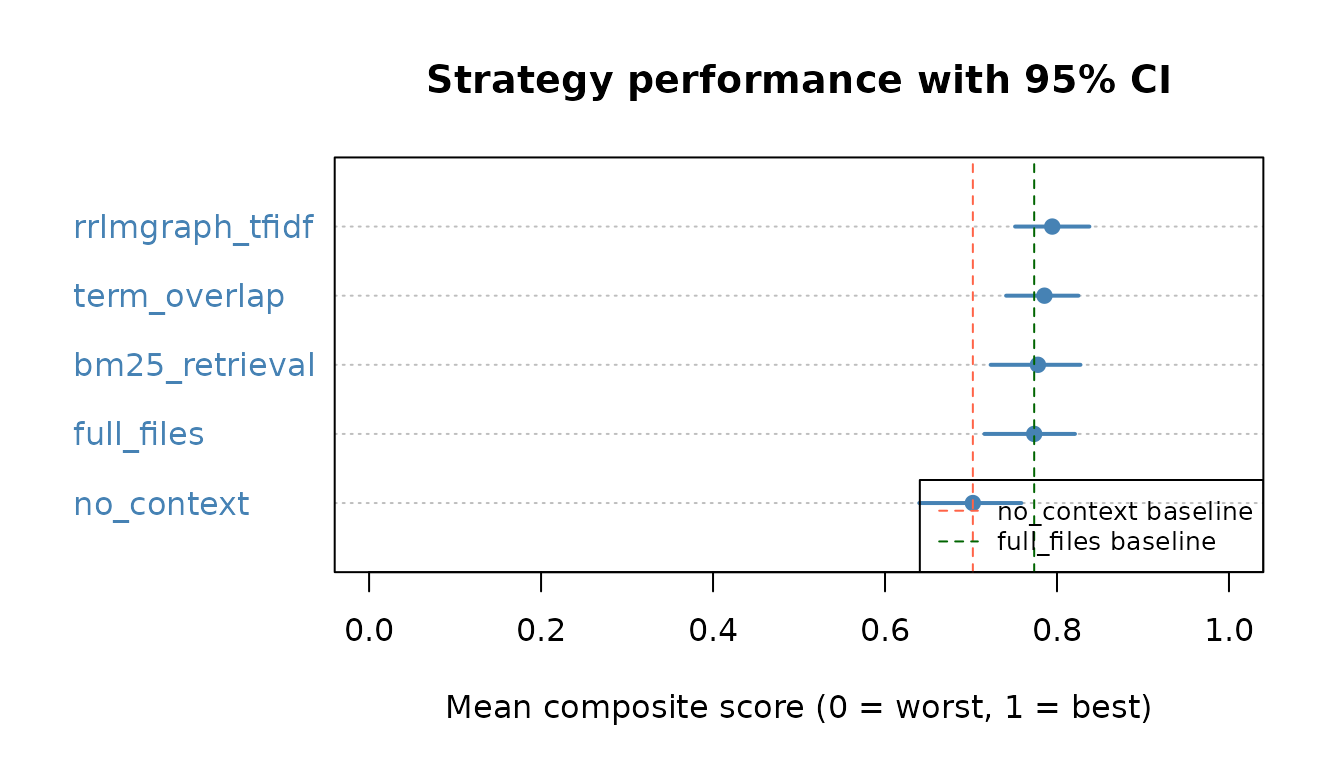
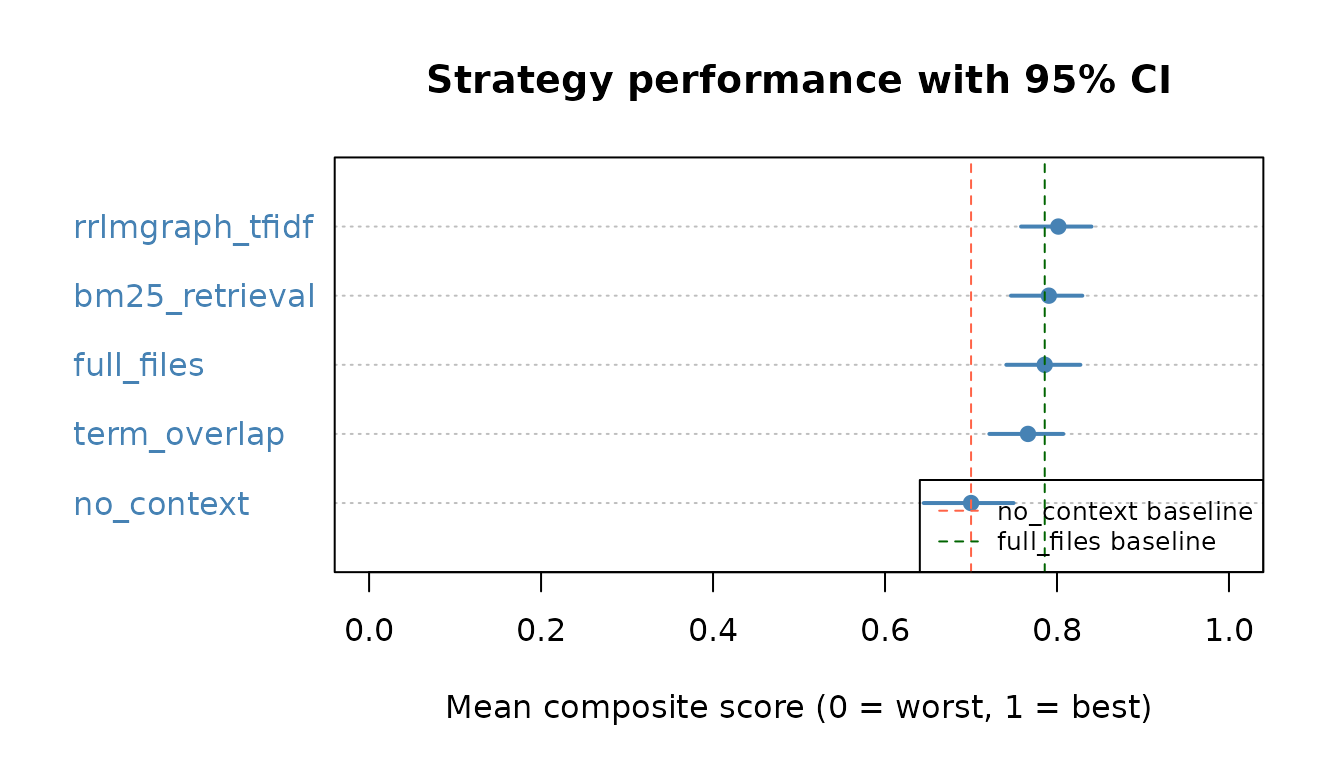
Deploying to gh-pages from @ davidrsch/rrlmgraph-bench@4876ec81f4651fabf355dbad94a3f4f26b782f0a 🚀

diff --git a/articles/benchmark_report.html b/articles/benchmark_report.html
@@ -201,17 +201,17 @@ automatically every Monday (and on demand) by the
 <span>    <span class="op">)</span></span>
 <span>  <span class="op">)</span></span>
 <span><span class="op">}</span></span></code></pre></div>
-<table style="width:100%;" class="table">
+<table class="table">
 <caption>First 6 rows of raw results. ‘score’ is the composite 0-1
 metric. ‘syntax_valid’ and ‘runs_without_error’ are 0/1 indicators.
 ‘total_tokens’ is the sum of input + output tokens billed.</caption>
 <colgroup>
-<col width="20%">
+<col width="18%">
 <col width="16%">
 <col width="6%">
 <col width="10%">
 <col width="13%">
-<col width="19%">
+<col width="20%">
 <col width="13%">
 </colgroup>
 <thead><tr class="header">
@@ -225,58 +225,58 @@ metric. ‘syntax_valid’ and ‘runs_without_error’ are 0/1 indicators.
 </tr></thead>
 <tbody>
 <tr class="odd">
-<td align="left">task_001_fm_mini_ds</td>
+<td align="left">task_017_fm_shiny</td>
 <td align="left">rrlmgraph_tfidf</td>
 <td align="right">1</td>
-<td align="right">0.8563655</td>
+<td align="right">0.7172388</td>
 <td align="left">TRUE</td>
 <td align="left">TRUE</td>
-<td align="right">642</td>
+<td align="right">1206</td>
 </tr>
 <tr class="even">
-<td align="left">task_001_fm_mini_ds</td>
+<td align="left">task_017_fm_shiny</td>
 <td align="left">full_files</td>
 <td align="right">1</td>
-<td align="right">0.8016129</td>
+<td align="right">0.6956590</td>
 <td align="left">TRUE</td>
 <td align="left">TRUE</td>
-<td align="right">1854</td>
+<td align="right">2361</td>
 </tr>
 <tr class="odd">
-<td align="left">task_001_fm_mini_ds</td>
+<td align="left">task_017_fm_shiny</td>
 <td align="left">term_overlap</td>
 <td align="right">1</td>
-<td align="right">0.8083578</td>
+<td align="right">0.6891128</td>
 <td align="left">TRUE</td>
 <td align="left">TRUE</td>
-<td align="right">455</td>
+<td align="right">5877</td>
 </tr>
 <tr class="even">
-<td align="left">task_001_fm_mini_ds</td>
+<td align="left">task_017_fm_shiny</td>
 <td align="left">bm25_retrieval</td>
 <td align="right">1</td>
-<td align="right">0.8568571</td>
+<td align="right">0.6922215</td>
 <td align="left">TRUE</td>
 <td align="left">TRUE</td>
-<td align="right">1865</td>
+<td align="right">5615</td>
 </tr>
 <tr class="odd">
-<td align="left">task_001_fm_mini_ds</td>
+<td align="left">task_017_fm_shiny</td>
 <td align="left">no_context</td>
 <td align="right">1</td>
-<td align="right">0.7824445</td>
+<td align="right">0.6668615</td>
 <td align="left">TRUE</td>
 <td align="left">TRUE</td>
-<td align="right">356</td>
+<td align="right">209</td>
 </tr>
 <tr class="even">
-<td align="left">task_002_fm_shiny</td>
+<td align="left">task_005_bd_shiny</td>
 <td align="left">rrlmgraph_tfidf</td>
 <td align="right">1</td>
-<td align="right">0.8822222</td>
+<td align="right">0.9152941</td>
 <td align="left">TRUE</td>
 <td align="left">TRUE</td>
-<td align="right">687</td>
+<td align="right">889</td>
 </tr>
 </tbody>
 </table>
@@ -367,52 +367,52 @@ rate per strategy.</caption>
 <tbody>
 <tr class="odd">
 <td align="left">rrlmgraph_tfidf</td>
-<td align="right">30</td>
-<td align="right">0.794</td>
-<td align="right">0.116</td>
-<td align="right">0.751</td>
-<td align="right">0.838</td>
-<td align="right">733.833</td>
-<td align="right">0.400</td>
+<td align="right">29</td>
+<td align="right">0.802</td>
+<td align="right">0.117</td>
+<td align="right">0.758</td>
+<td align="right">0.840</td>
+<td align="right">726.586</td>
+<td align="right">0.379</td>
 </tr>
 <tr class="even">
 <td align="left">full_files</td>
 <td align="right">29</td>
-<td align="right">0.773</td>
-<td align="right">0.147</td>
-<td align="right">0.716</td>
-<td align="right">0.821</td>
-<td align="right">1284.966</td>
+<td align="right">0.786</td>
+<td align="right">0.123</td>
+<td align="right">0.741</td>
+<td align="right">0.827</td>
+<td align="right">1172.000</td>
 <td align="right">0.379</td>
 </tr>
 <tr class="odd">
 <td align="left">term_overlap</td>
 <td align="right">29</td>
-<td align="right">0.785</td>
-<td align="right">0.117</td>
-<td align="right">0.741</td>
-<td align="right">0.825</td>
-<td align="right">2654.000</td>
-<td align="right">0.448</td>
+<td align="right">0.766</td>
+<td align="right">0.123</td>
+<td align="right">0.721</td>
+<td align="right">0.807</td>
+<td align="right">2421.552</td>
+<td align="right">0.414</td>
 </tr>
 <tr class="even">
 <td align="left">bm25_retrieval</td>
 <td align="right">29</td>
-<td align="right">0.778</td>
-<td align="right">0.148</td>
-<td align="right">0.723</td>
-<td align="right">0.827</td>
-<td align="right">2531.241</td>
-<td align="right">0.414</td>
+<td align="right">0.791</td>
+<td align="right">0.119</td>
+<td align="right">0.746</td>
+<td align="right">0.830</td>
+<td align="right">2320.379</td>
+<td align="right">0.448</td>
 </tr>
 <tr class="odd">
 <td align="left">no_context</td>
 <td align="right">29</td>
-<td align="right">0.702</td>
-<td align="right">0.163</td>
-<td align="right">0.640</td>
-<td align="right">0.759</td>
-<td align="right">277.690</td>
+<td align="right">0.700</td>
+<td align="right">0.146</td>
+<td align="right">0.645</td>
+<td align="right">0.750</td>
+<td align="right">269.517</td>
 <td align="right">0.276</td>
 </tr>
 </tbody>
@@ -508,22 +508,22 @@ strategy is less efficient.</caption>
 <tbody>
 <tr class="odd">
 <td align="left">no_context</td>
-<td align="right">4.201</td>
+<td align="right">3.874</td>
 <td align="left">More efficient than full_files</td>
 </tr>
 <tr class="even">
 <td align="left">rrlmgraph_tfidf</td>
-<td align="right">1.799</td>
+<td align="right">1.646</td>
 <td align="left">More efficient than full_files</td>
 </tr>
 <tr class="odd">
 <td align="left">bm25_retrieval</td>
-<td align="right">0.510</td>
+<td align="right">0.508</td>
 <td align="left">Less efficient than full_files</td>
 </tr>
 <tr class="even">
 <td align="left">term_overlap</td>
-<td align="right">0.492</td>
+<td align="right">0.472</td>
 <td align="left">Less efficient than full_files</td>
 </tr>
 <tr class="odd">
@@ -578,22 +578,22 @@ namespace.</caption>
 <td align="left">High (&gt; 25%)</td>
 </tr>
 <tr class="even">
-<td align="left">full_files</td>
+<td align="left">rrlmgraph_tfidf</td>
 <td align="right">0.379</td>
 <td align="left">High (&gt; 25%)</td>
 </tr>
 <tr class="odd">
-<td align="left">rrlmgraph_tfidf</td>
-<td align="right">0.400</td>
+<td align="left">full_files</td>
+<td align="right">0.379</td>
 <td align="left">High (&gt; 25%)</td>
 </tr>
 <tr class="even">
-<td align="left">bm25_retrieval</td>
+<td align="left">term_overlap</td>
 <td align="right">0.414</td>
 <td align="left">High (&gt; 25%)</td>
 </tr>
 <tr class="odd">
-<td align="left">term_overlap</td>
+<td align="left">bm25_retrieval</td>
 <td align="right">0.448</td>
 <td align="left">High (&gt; 25%)</td>
 </tr>
@@ -757,33 +757,33 @@ differences across projects is not robust.</caption>
 <tbody>
 <tr class="odd">
 <td align="left">bm25_retrieval</td>
-<td align="right">0.853</td>
-<td align="right">0.747</td>
-<td align="right">0.730</td>
+<td align="right">0.841</td>
+<td align="right">0.795</td>
+<td align="right">0.735</td>
 </tr>
 <tr class="even">
 <td align="left">full_files</td>
-<td align="right">0.839</td>
-<td align="right">0.748</td>
-<td align="right">0.731</td>
+<td align="right">0.846</td>
+<td align="right">0.777</td>
+<td align="right">0.734</td>
 </tr>
 <tr class="odd">
 <td align="left">no_context</td>
-<td align="right">0.791</td>
-<td align="right">0.653</td>
-<td align="right">0.657</td>
+<td align="right">0.771</td>
+<td align="right">0.676</td>
+<td align="right">0.651</td>
 </tr>
 <tr class="even">
 <td align="left">rrlmgraph_tfidf</td>
-<td align="right">0.815</td>
-<td align="right">0.759</td>
-<td align="right">0.809</td>
+<td align="right">0.850</td>
+<td align="right">0.769</td>
+<td align="right">0.782</td>
 </tr>
 <tr class="odd">
 <td align="left">term_overlap</td>
-<td align="right">0.841</td>
-<td align="right">0.786</td>
-<td align="right">0.730</td>
+<td align="right">0.812</td>
+<td align="right">0.783</td>
+<td align="right">0.705</td>
 </tr>
 </tbody>
 </table>

diff --git a/articles/benchmark_report.md b/articles/benchmark_report.md
@@ -89,14 +89,14 @@ if (!results_available) {
 }
 ```
 
-| task_id             | strategy        | trial |     score | syntax_valid | runs_without_error | total_tokens |
-|:--------------------|:----------------|------:|----------:|:-------------|:-------------------|-------------:|
-| task_001_fm_mini_ds | rrlmgraph_tfidf |     1 | 0.8563655 | TRUE         | TRUE               |          642 |
-| task_001_fm_mini_ds | full_files      |     1 | 0.8016129 | TRUE         | TRUE               |         1854 |
-| task_001_fm_mini_ds | term_overlap    |     1 | 0.8083578 | TRUE         | TRUE               |          455 |
-| task_001_fm_mini_ds | bm25_retrieval  |     1 | 0.8568571 | TRUE         | TRUE               |         1865 |
-| task_001_fm_mini_ds | no_context      |     1 | 0.7824445 | TRUE         | TRUE               |          356 |
-| task_002_fm_shiny   | rrlmgraph_tfidf |     1 | 0.8822222 | TRUE         | TRUE               |          687 |
+| task_id           | strategy        | trial |     score | syntax_valid | runs_without_error | total_tokens |
+|:------------------|:----------------|------:|----------:|:-------------|:-------------------|-------------:|
+| task_017_fm_shiny | rrlmgraph_tfidf |     1 | 0.7172388 | TRUE         | TRUE               |         1206 |
+| task_017_fm_shiny | full_files      |     1 | 0.6956590 | TRUE         | TRUE               |         2361 |
+| task_017_fm_shiny | term_overlap    |     1 | 0.6891128 | TRUE         | TRUE               |         5877 |
+| task_017_fm_shiny | bm25_retrieval  |     1 | 0.6922215 | TRUE         | TRUE               |         5615 |
+| task_017_fm_shiny | no_context      |     1 | 0.6668615 | TRUE         | TRUE               |          209 |
+| task_005_bd_shiny | rrlmgraph_tfidf |     1 | 0.9152941 | TRUE         | TRUE               |          889 |
 
 First 6 rows of raw results. ‘score’ is the composite 0-1 metric.
 ‘syntax_valid’ and ‘runs_without_error’ are 0/1 indicators.
@@ -137,11 +137,11 @@ if (results_available) {
 
 | strategy        |   n | mean_score | sd_score | ci_lo_95 | ci_hi_95 | mean_total_tokens | hallucination_rate |
 |:----------------|----:|-----------:|---------:|---------:|---------:|------------------:|-------------------:|
-| rrlmgraph_tfidf |  30 |      0.794 |    0.116 |    0.751 |    0.838 |           733.833 |              0.400 |
-| full_files      |  29 |      0.773 |    0.147 |    0.716 |    0.821 |          1284.966 |              0.379 |
-| term_overlap    |  29 |      0.785 |    0.117 |    0.741 |    0.825 |          2654.000 |              0.448 |
-| bm25_retrieval  |  29 |      0.778 |    0.148 |    0.723 |    0.827 |          2531.241 |              0.414 |
-| no_context      |  29 |      0.702 |    0.163 |    0.640 |    0.759 |           277.690 |              0.276 |
+| rrlmgraph_tfidf |  29 |      0.802 |    0.117 |    0.758 |    0.840 |           726.586 |              0.379 |
+| full_files      |  29 |      0.786 |    0.123 |    0.741 |    0.827 |          1172.000 |              0.379 |
+| term_overlap    |  29 |      0.766 |    0.123 |    0.721 |    0.807 |          2421.552 |              0.414 |
+| bm25_retrieval  |  29 |      0.791 |    0.119 |    0.746 |    0.830 |          2320.379 |              0.448 |
+| no_context      |  29 |      0.700 |    0.146 |    0.645 |    0.750 |           269.517 |              0.276 |
 
 Summary: mean score, 95% CI, token usage, and hallucination rate per
 strategy.
@@ -233,10 +233,10 @@ if (results_available) {
 
 | strategy        |   TER | interpretation                 |
 |:----------------|------:|:-------------------------------|
-| no_context      | 4.201 | More efficient than full_files |
-| rrlmgraph_tfidf | 1.799 | More efficient than full_files |
-| bm25_retrieval  | 0.510 | Less efficient than full_files |
-| term_overlap    | 0.492 | Less efficient than full_files |
+| no_context      | 3.874 | More efficient than full_files |
+| rrlmgraph_tfidf | 1.646 | More efficient than full_files |
+| bm25_retrieval  | 0.508 | Less efficient than full_files |
+| term_overlap    | 0.472 | Less efficient than full_files |
 | full_files      |    NA | N/A (baseline)                 |
 
 Token Efficiency Ratio (TER) vs full_files baseline. TER \> 1: strategy
@@ -276,10 +276,10 @@ if (results_available) {
 | strategy        | hallucination_rate | verdict       |
 |:----------------|-------------------:|:--------------|
 | no_context      |              0.276 | High (\> 25%) |
+| rrlmgraph_tfidf |              0.379 | High (\> 25%) |
 | full_files      |              0.379 | High (\> 25%) |
-| rrlmgraph_tfidf |              0.400 | High (\> 25%) |
-| bm25_retrieval  |              0.414 | High (\> 25%) |
-| term_overlap    |              0.448 | High (\> 25%) |
+| term_overlap    |              0.414 | High (\> 25%) |
+| bm25_retrieval  |              0.448 | High (\> 25%) |
 
 Hallucination rate per strategy. Defined as: fraction of trials with \>=
 1 invented function, invalid argument, or wrong namespace.
@@ -415,11 +415,11 @@ if (results_available && "task_id" %in% names(all_results)) {
 
 | strategy        | mini_ds |  rpkg | shiny |
 |:----------------|--------:|------:|------:|
-| bm25_retrieval  |   0.853 | 0.747 | 0.730 |
-| full_files      |   0.839 | 0.748 | 0.731 |
-| no_context      |   0.791 | 0.653 | 0.657 |
-| rrlmgraph_tfidf |   0.815 | 0.759 | 0.809 |
-| term_overlap    |   0.841 | 0.786 | 0.730 |
+| bm25_retrieval  |   0.841 | 0.795 | 0.735 |
+| full_files      |   0.846 | 0.777 | 0.734 |
+| no_context      |   0.771 | 0.676 | 0.651 |
+| rrlmgraph_tfidf |   0.850 | 0.769 | 0.782 |
+| term_overlap    |   0.812 | 0.783 | 0.705 |
 
 Mean score per strategy per project type. A strategy with large
 differences across projects is not robust.
